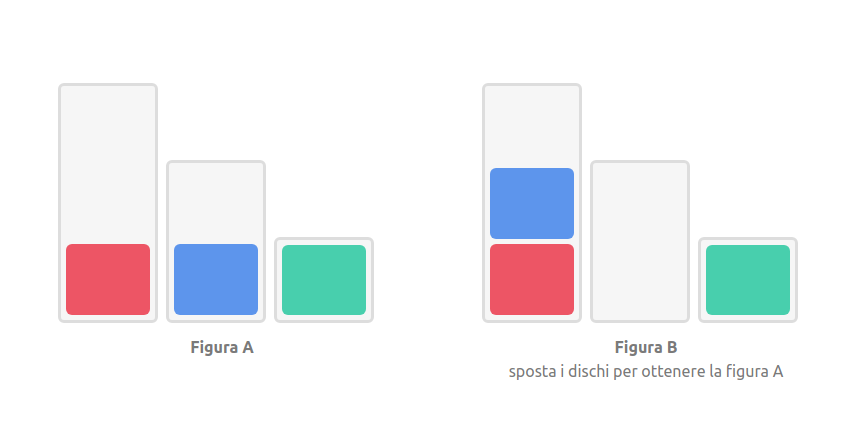
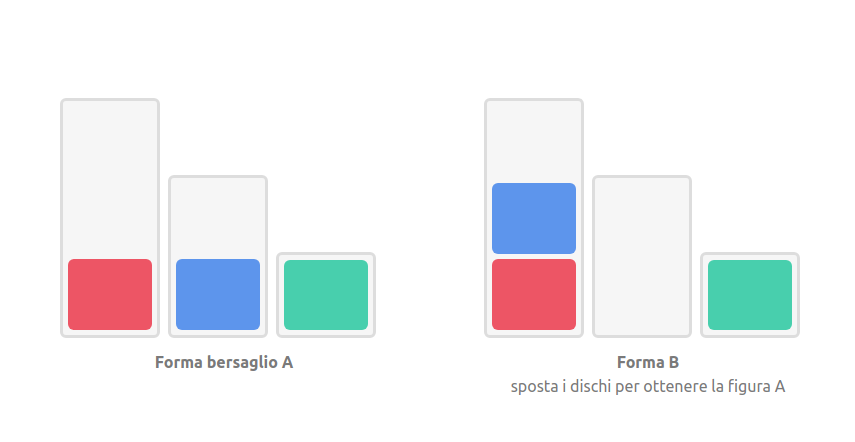
update task tol

diff --git a/src/setup/tasks/tol-setup.js b/src/setup/tasks/tol-setup.js
@@ -141,17 +141,16 @@ const blocks = [
               presente che puoi spostare solo i dischi che si trovano in cima 
               a ogni torre.</p><p>Cerca di ottenere il risultato finale 
               compiendo il minor numero di mosse.</p>`,
-          scoring: `Il punteggio dipende dalla correttezza
-            della risposta, dal numero di mosse e dal tempo impiegato per 
-            giungere alla soluzione.`,
+          scoring: `correttezza della risposta, numero di mosse compiute, 
+            tempo impiegato.`,
           items: 16,
           duration: "nessun limite di tempo.",
           images: [
             {
               src: "tol/fig1.png",
-              description: `A sinistra, è presentata la forma bersaglio A. 
-                A destra, la forma B i cui dischi devono essere spostati 
-                per ottenere la figura bersaglio A.`,
+              description: `A sinistra, si vede la forma bersaglio A, mentre 
+                a destra si vede la forma B, i cui dischi devono essere spostati 
+                tra le sue torri per ottenere la forma bersaglio A.`,
             },
           ],
           actions: 0,
